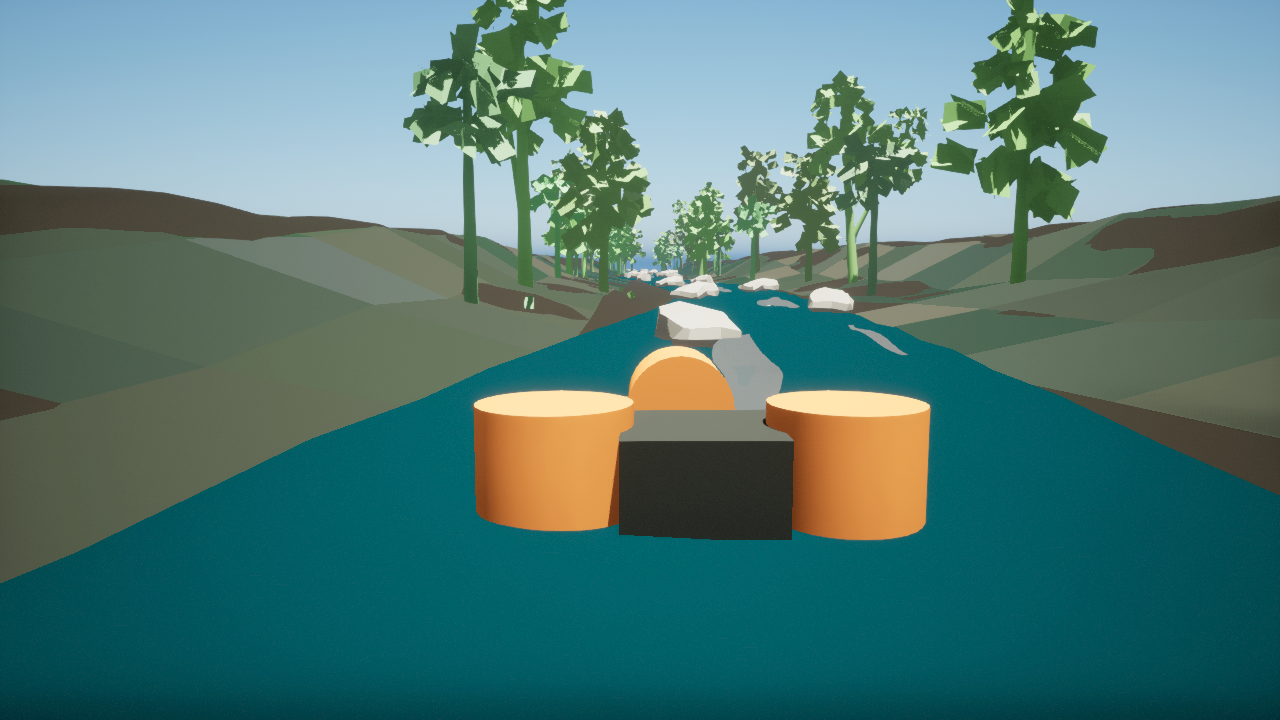
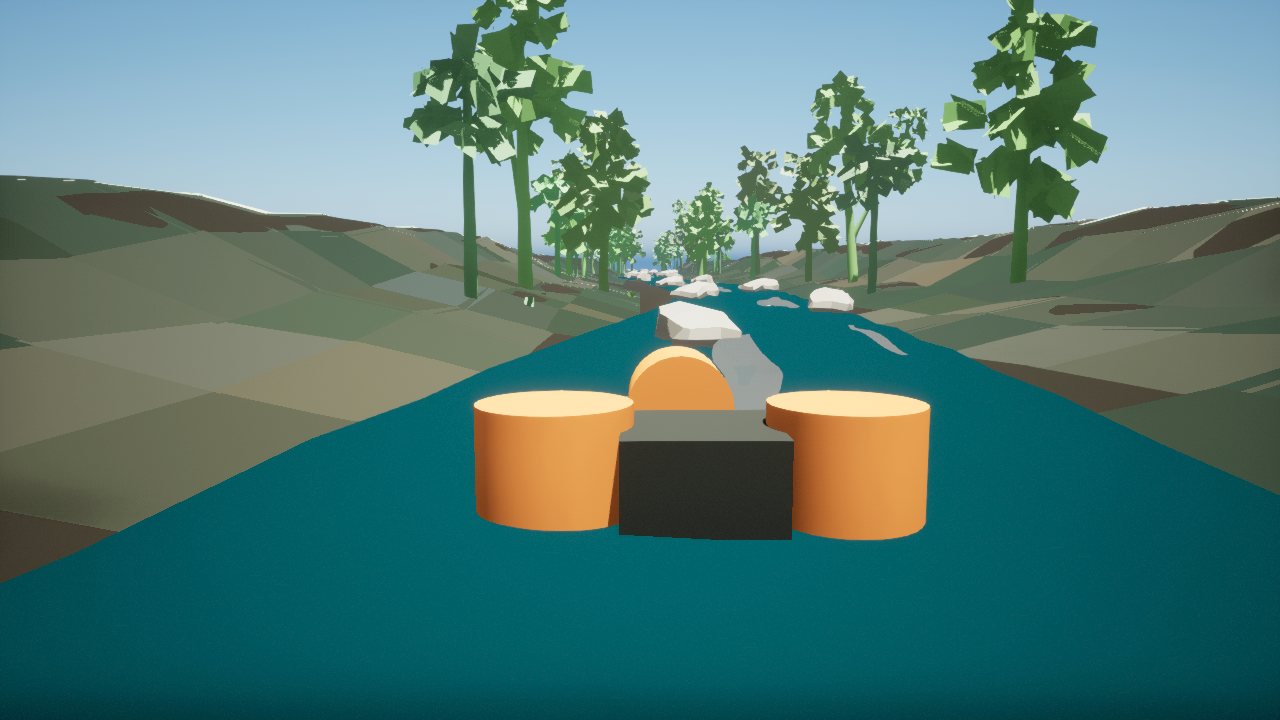
Densify source drape preview mosaics

diff --git a/unreal/Plugins/RaftSim/Source/RaftSimEditor/Private/RaftSimEditorModule.cpp b/unreal/Plugins/RaftSim/Source/RaftSimEditor/Private/RaftSimEditorModule.cpp
@@ -209,7 +209,7 @@ TArray<FRaftSimEnvironmentPreviewSpec> GetEnvironmentPreviewSpecs()
     SouthFork.ElevationSample =
         TEXT("physics/data/real_world/south_fork_american_chili_bar/terrain/usgs_3dep_chili_bar_sample_256.tif");
     SouthFork.SourceDrapeDescription =
-        TEXT("official USDA/APFO NAIP 512px aerial sample sampled into visible terrain overlay tiles; derived USGS 3DEP relief preview sampled into bank and valley terrain geometry; full elevation conditioning remains pending; rocks, foliage, water, foam, raft, and lighting remain proxy layers");
+        TEXT("official USDA/APFO NAIP 512px aerial sample sampled into a denser terrain-conforming source-drape mosaic; derived USGS 3DEP relief preview sampled into bank and valley terrain geometry; full elevation conditioning remains pending; rocks, foliage, water, foam, raft, and lighting remain proxy layers");
     SouthFork.WaterColor = FLinearColor(0.05f, 0.42f, 0.47f);
     SouthFork.TerrainColor = FLinearColor(0.35f, 0.30f, 0.21f);
     SouthFork.RockColor = FLinearColor(0.38f, 0.36f, 0.31f);
@@ -236,7 +236,7 @@ TArray<FRaftSimEnvironmentPreviewSpec> GetEnvironmentPreviewSpecs()
     Colorado.ElevationSample =
         TEXT("physics/data/real_world/colorado_river_grand_canyon_rowing/terrain/usgs_3dep_lees_ferry_sample_256.tif");
     Colorado.SourceDrapeDescription =
-        TEXT("official USDA/APFO NAIP 512px Lees Ferry aerial sample sampled into visible canyon terrain overlay tiles; derived USGS 3DEP relief preview sampled into canyon bank geometry; full canyon heightfield conditioning remains pending; rocks, foliage, water, foam, raft, and lighting remain proxy layers");
+        TEXT("official USDA/APFO NAIP 512px Lees Ferry aerial sample sampled into a denser terrain-conforming canyon source-drape mosaic; derived USGS 3DEP relief preview sampled into canyon bank geometry; full canyon heightfield conditioning remains pending; rocks, foliage, water, foam, raft, and lighting remain proxy layers");
     Colorado.WaterColor = FLinearColor(0.34f, 0.28f, 0.19f);
     Colorado.TerrainColor = FLinearColor(0.48f, 0.30f, 0.18f);
     Colorado.RockColor = FLinearColor(0.55f, 0.32f, 0.20f);
@@ -264,7 +264,7 @@ TArray<FRaftSimEnvironmentPreviewSpec> GetEnvironmentPreviewSpecs()
     Pacuare.ElevationSample =
         TEXT("physics/data/real_world/pacuare_river_costa_rica/terrain/copernicus_dem_glo30_N09_W084.tif; physics/data/real_world/pacuare_river_costa_rica/terrain/copernicus_dem_glo30_N10_W084.tif");
     Pacuare.SourceDrapeDescription =
-        TEXT("deterministic preview drape generated from the selected official NASA GIBS MODIS/Terra true-color sample and Copernicus DEM GLO-30 relief, with cloud gaps filled by DEM-derived rainforest shading; Copernicus DEM COG tiles remain recorded for follow-on Pacuare gorge heightfield conditioning; rocks, foliage, water, waterfalls, foam, raft, and lighting remain proxy layers");
+        TEXT("deterministic preview drape generated from the selected official NASA GIBS MODIS/Terra true-color sample and Copernicus DEM GLO-30 relief, sampled into a denser terrain-conforming rainforest source-drape mosaic with cloud gaps filled by DEM-derived shading; Copernicus DEM COG tiles remain recorded for follow-on Pacuare gorge heightfield conditioning; rocks, foliage, water, waterfalls, foam, raft, and lighting remain proxy layers");
     Pacuare.WaterColor = FLinearColor(0.04f, 0.35f, 0.28f);
     Pacuare.TerrainColor = FLinearColor(0.17f, 0.22f, 0.13f);
     Pacuare.RockColor = FLinearColor(0.20f, 0.24f, 0.20f);
@@ -745,8 +745,8 @@ void AddPreviewAerialDrapeTiles(
         return;
     }
 
-    constexpr int32 XTiles = 40;
-    constexpr int32 YTiles = 12;
+    constexpr int32 XTiles = 64;
+    constexpr int32 YTiles = 20;
     const float MinX = -5600.0f;
     const float MaxX = 26000.0f;
     const float HalfWidth = Spec.bDesertCanyon ? 4300.0f : 2750.0f;
@@ -767,9 +767,13 @@ void AddPreviewAerialDrapeTiles(
                 continue;
             }
 
-            const FLinearColor AerialColor = FMath::Lerp(AerialDrape.Sample(U, V), Spec.TerrainColor, 0.08f);
-            const float HalfLength = TileLength * 0.50f;
-            const float HalfTileWidth = TileWidth * 0.50f;
+            FLinearColor AerialColor = FMath::Lerp(AerialDrape.Sample(U, V), Spec.TerrainColor, 0.08f);
+            AerialColor.R = FMath::Max(AerialColor.R, Spec.TerrainColor.R * 0.80f + 0.04f);
+            AerialColor.G = FMath::Max(AerialColor.G, Spec.TerrainColor.G * 0.80f + 0.04f);
+            AerialColor.B = FMath::Max(AerialColor.B, Spec.TerrainColor.B * 0.80f + 0.04f);
+            AerialColor.A = 1.0f;
+            const float HalfLength = TileLength * 0.56f;
+            const float HalfTileWidth = TileWidth * 0.56f;
             const float TileZOffset = 14.0f;
             const float X0 = X - HalfLength;
             const float X1 = X + HalfLength;

diff --git a/docs/photoreal-river-environment-production-plan.md b/docs/photoreal-river-environment-production-plan.md
@@ -95,12 +95,12 @@ Initial source slice:
 - First-pass river `.umap` assets now exist under `unreal/Content/RaftSim/Maps/EnvironmentPreviews/`.
 - Rendered guide-seat procedural blockout captures now exist under `docs/environment-captures/photoreal_river_previews/`, but they are not lifelike production evidence yet.
 - The first South Fork official source slice now exists at `physics/data/real_world/south_fork_american_chili_bar/production_source_pull_manifest.json`: historical USGS `11445500` daily discharge, TNM NHD product metadata, TNM DEM/NAIP zero-hit diagnostics, a small USGS 3DEP GeoTIFF sample, and a small USDA/APFO NAIP aerial sample.
-- The South Fork preview now uses the USDA/APFO NAIP sample as a source-derived visible terrain overlay and `terrain/usgs_3dep_chili_bar_relief_preview_512.png` as preview-only bank/valley terrain relief in Unreal. This proves imagery and relief plumbing, but the inputs are small smoke-test rasters rather than complete orthomosaic, conditioned DEM, or terrain material passes.
-- The first Colorado/Lees Ferry official source slice now exists at `physics/data/real_world/colorado_river_grand_canyon_rowing/production_source_pull_manifest.json`: USGS `09380000` and `09402500` daily discharge histories through July 4, 2026, a small USGS 3DEP GeoTIFF sample, and a small USDA/APFO NAIP aerial sample. The Colorado preview uses that NAIP sample as a source-derived visible canyon terrain overlay.
+- The South Fork preview now uses the USDA/APFO NAIP sample as a denser terrain-conforming source-drape mosaic and `terrain/usgs_3dep_chili_bar_relief_preview_512.png` as preview-only bank/valley terrain relief in Unreal. This proves imagery and relief plumbing, but the inputs are small smoke-test rasters rather than complete orthomosaic, conditioned DEM, or terrain material passes.
+- The first Colorado/Lees Ferry official source slice now exists at `physics/data/real_world/colorado_river_grand_canyon_rowing/production_source_pull_manifest.json`: USGS `09380000` and `09402500` daily discharge histories through July 4, 2026, a small USGS 3DEP GeoTIFF sample, and a small USDA/APFO NAIP aerial sample. The Colorado preview uses that NAIP sample as a denser terrain-conforming canyon source-drape mosaic.
 - The Colorado preview now also uses `terrain/usgs_3dep_lees_ferry_relief_preview_512.png` as preview-only canyon bank relief in Unreal, while full Grand Canyon corridor terrain tiling, river-mile stationing, and heightfield import remain pending.
-- The first Pacuare public/global source slice now exists at `physics/data/real_world/pacuare_river_costa_rica/production_source_pull_manifest.json`: Copernicus DEM GLO-30 public COG tiles for the draft bounds, a NASA GIBS MODIS/Terra April 2, 2025 true-color preview sample selected from five cloud-screened dates, a deterministic NASA-plus-DEM preview drape, and an OpenTopography API-key gate probe. The Pacuare preview uses the derived drape as a source-derived visible rainforest terrain overlay.
+- The first Pacuare public/global source slice now exists at `physics/data/real_world/pacuare_river_costa_rica/production_source_pull_manifest.json`: Copernicus DEM GLO-30 public COG tiles for the draft bounds, a NASA GIBS MODIS/Terra April 2, 2025 true-color preview sample selected from five cloud-screened dates, a deterministic NASA-plus-DEM preview drape, and an OpenTopography API-key gate probe. The Pacuare preview uses the derived drape as a denser terrain-conforming rainforest source-drape mosaic.
 - `physics/data/real_world/reference_media_link_manifest.json` now records the first link-only reference media seed list for all three rivers: official/public pages, Wikimedia/Flickr review searches, and public social/search seeds. These are fidelity-review leads only and remain blocked from asset use until item-level rights, attribution, date, reach, observed flow/weather context, and permission status are recorded.
-- The preview generator now keeps source provenance out of the rendered guide-seat frame and records it in JSON instead. It also uses a lit preview material, computed procedural mesh normals, terrain-conforming source drape tiles, PCG sample foliage meshes where available, and curved procedural foam/wave/eddy-line ribbons. This improves depth and review readability but is still not production photoreal vegetation, rock, water, or terrain material work.
+- The preview generator now keeps source provenance out of the rendered guide-seat frame and records it in JSON instead. It also uses a lit preview material, computed procedural mesh normals, denser terrain-conforming source-drape mosaics, PCG sample foliage meshes where available, and curved procedural foam/wave/eddy-line ribbons. This improves depth and review readability but is still not production photoreal vegetation, rock, water, or terrain material work.
 - The existing default map path `/Game/RaftSim/Maps/L_RaftSimBoot` has no committed level asset yet.
 - Colorado and Pacuare still need full-corridor geospatial processing, hydrology review, guide review, and rights-cleared field/reference media.
 - South Fork has the only solver corridor package, but its terrain, imagery, and field media are still representative placeholders rather than production pulls.
@@ -110,9 +110,9 @@ Initial source slice:
 
 - South Fork American: `/Game/RaftSim/Maps/EnvironmentPreviews/L_SouthForkAmerican_PhotorealPreview`, capture `docs/environment-captures/photoreal_river_previews/american_south_fork_guide_seat_downstream.png`.
 - South Fork source data: `physics/data/real_world/south_fork_american_chili_bar/production_source_pull_manifest.json` records the initial official pull; this is enough to prove provenance plumbing but not enough for production terrain/imagery.
-- South Fork Unreal source layer: `physics/data/real_world/south_fork_american_chili_bar/imagery/usda_naip_chili_bar_sample_512.png` is sampled into visible terrain overlay tiles for the generated preview map, `physics/data/real_world/south_fork_american_chili_bar/terrain/usgs_3dep_chili_bar_relief_preview_512.png` is sampled into preview terrain geometry, and `physics/data/real_world/south_fork_american_chili_bar/terrain/usgs_3dep_chili_bar_sample_256.tif` is recorded for the next heightfield-conditioning pass.
+- South Fork Unreal source layer: `physics/data/real_world/south_fork_american_chili_bar/imagery/usda_naip_chili_bar_sample_512.png` is sampled into a denser terrain-conforming source-drape mosaic for the generated preview map, `physics/data/real_world/south_fork_american_chili_bar/terrain/usgs_3dep_chili_bar_relief_preview_512.png` is sampled into preview terrain geometry, and `physics/data/real_world/south_fork_american_chili_bar/terrain/usgs_3dep_chili_bar_sample_256.tif` is recorded for the next heightfield-conditioning pass.
 - Colorado River: `/Game/RaftSim/Maps/EnvironmentPreviews/L_ColoradoGrandCanyon_PhotorealPreview`, capture `docs/environment-captures/photoreal_river_previews/colorado_river_guide_seat_downstream.png`.
-- Colorado source data: `physics/data/real_world/colorado_river_grand_canyon_rowing/production_source_pull_manifest.json` records the initial official pull; `imagery/usda_naip_lees_ferry_sample_512.png` is sampled into visible canyon terrain overlay tiles, `terrain/usgs_3dep_lees_ferry_relief_preview_512.png` is sampled into preview canyon terrain geometry, and `terrain/usgs_3dep_lees_ferry_sample_256.tif` is recorded for the next canyon heightfield-conditioning pass.
+- Colorado source data: `physics/data/real_world/colorado_river_grand_canyon_rowing/production_source_pull_manifest.json` records the initial official pull; `imagery/usda_naip_lees_ferry_sample_512.png` is sampled into a denser terrain-conforming canyon source-drape mosaic, `terrain/usgs_3dep_lees_ferry_relief_preview_512.png` is sampled into preview canyon terrain geometry, and `terrain/usgs_3dep_lees_ferry_sample_256.tif` is recorded for the next canyon heightfield-conditioning pass.
 - Pacuare River: `/Game/RaftSim/Maps/EnvironmentPreviews/L_PacuareRainforest_PhotorealPreview`, capture `docs/environment-captures/photoreal_river_previews/pacuare_guide_seat_downstream.png`.
-- Pacuare source data: `physics/data/real_world/pacuare_river_costa_rica/production_source_pull_manifest.json` records the initial public/global pull; `imagery/pacuare_nasa_gibs_2025-04-02_demshade_source_drape_512.png` is sampled into visible rainforest terrain overlay tiles, `terrain/pacuare_dem_relief_preview_512.png` is sampled into preview terrain geometry, and `terrain/copernicus_dem_glo30_N09_W084.tif` plus `terrain/copernicus_dem_glo30_N10_W084.tif` are recorded for the next gorge heightfield-conditioning pass.
+- Pacuare source data: `physics/data/real_world/pacuare_river_costa_rica/production_source_pull_manifest.json` records the initial public/global pull; `imagery/pacuare_nasa_gibs_2025-04-02_demshade_source_drape_512.png` is sampled into a denser terrain-conforming rainforest source-drape mosaic, `terrain/pacuare_dem_relief_preview_512.png` is sampled into preview terrain geometry, and `terrain/copernicus_dem_glo30_N09_W084.tif` plus `terrain/copernicus_dem_glo30_N10_W084.tif` are recorded for the next gorge heightfield-conditioning pass.
 - These captures verify editor automation, camera placement, generated valley terrain meshes, terrain-conforming source drapes, lit preview materials, curved river ribbons, procedural foam/wave/eddy-line ribbons, boulder bars, PCG sample foliage placeholders, and per-river light/fog variants. They must be replaced by source-derived or rights-cleared photoreal passes before the goal is complete.

diff --git a/TODO.md b/TODO.md
@@ -937,6 +937,7 @@ This milestone turns the three runnable river targets into complete, reviewable,
 - [x] Use the Pacuare Copernicus DEM relief preview in Unreal terrain generation by sampling `terrain/pacuare_dem_relief_preview_512.png` for preview-only bank/gorge height perturbation, while masking the river channel and recording the relief input in the capture manifest.
 - [x] Generate and wire USGS 3DEP relief previews for South Fork and Colorado by deriving `terrain/usgs_3dep_chili_bar_relief_preview_512.png` and `terrain/usgs_3dep_lees_ferry_relief_preview_512.png` from the official sample GeoTIFFs, sampling them into generated Unreal preview terrain, and recording the preview-only provenance manifests.
 - [x] Improve the generated Unreal preview renderer with a lit color material, computed procedural mesh normals, terrain-conforming source drape tiles, stronger preview lighting, and refreshed downstream captures for all three rivers. This adds useful depth and source-relief readability, but the screenshots remain proxy/blockout evidence rather than lifelike production art.
+- [x] Increase the generated Unreal source-drape coverage from sparse patch overlays to a denser, slightly overlapped terrain-conforming mosaic for South Fork, Colorado, and Pacuare, with refreshed downstream captures confirming the banks/canyon walls stay visible and source-derived color variation remains in frame. This is still preview evidence, not production photoreal terrain material work.
 - [x] Replace rectangular preview foam marks with curved procedural foam tongues, wave highlights, and eddy-line ribbons that follow each river centerline, and compute normals on the wavy river ribbon mesh so water has more in-engine surface depth. This improves visual readability but remains placeholder VFX before production water materials, spray, mist, and foam simulation.
 - [x] Replace primitive sphere/cylinder foliage in the generated previews with PCG sample tree and seedling meshes where available, keeping primitive foliage as a fallback and moving the first tree instances downstream so guide-seat captures are not clipped. This gives South Fork and Pacuare more believable corridor silhouettes, while production biome-specific foliage assets remain required.
 - [x] Add a link-only reference media manifest for South Fork American, Colorado, and Pacuare that records official/public media pages, Wikimedia/Flickr candidate searches, and public social media search seeds for manual fidelity review without downloading, scraping, vendoring, training on, or packaging third-party photos or footage before explicit item-level rights are cleared.